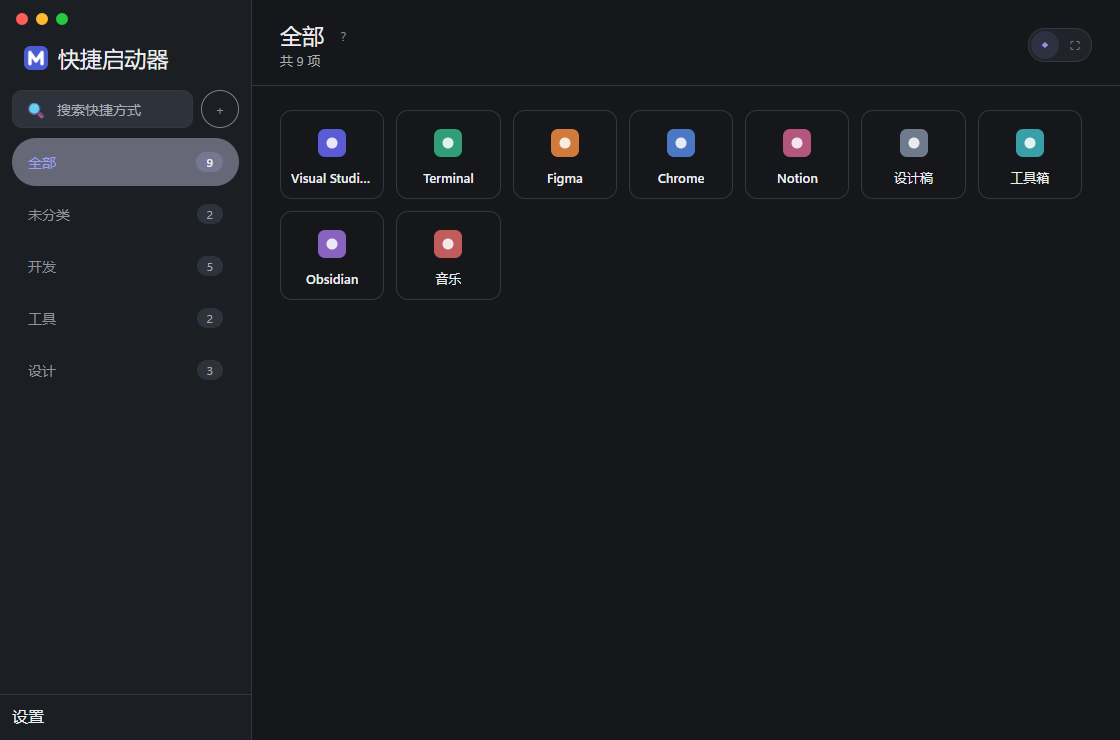
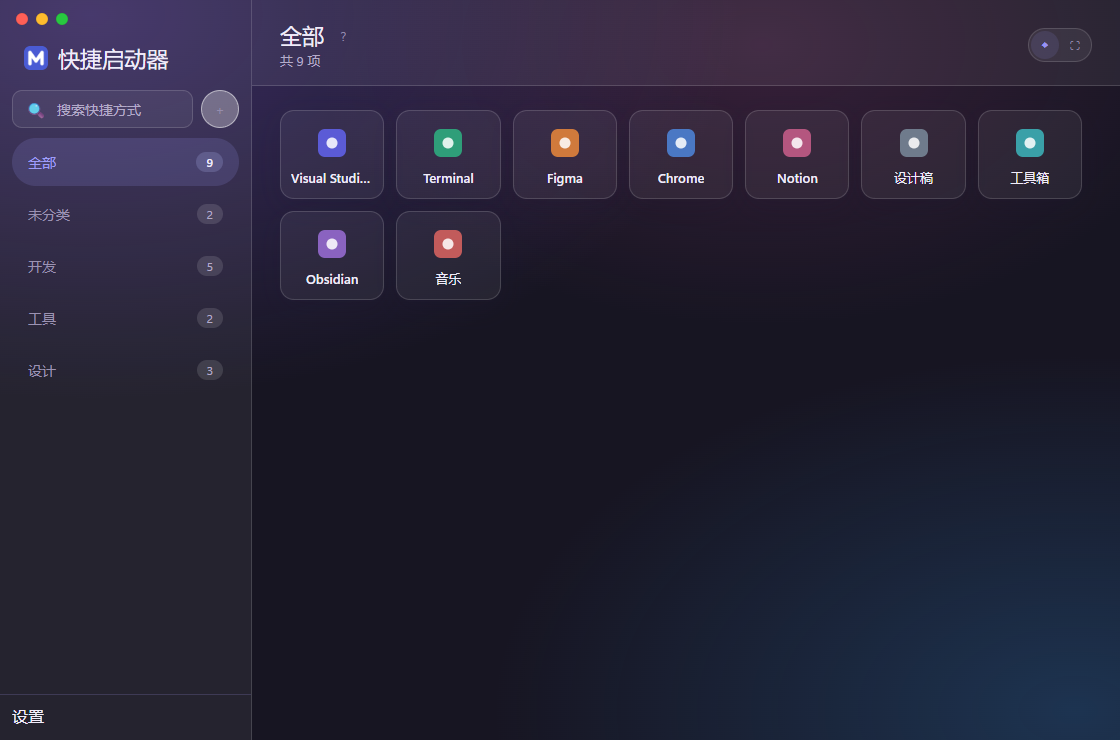
style: v0.4 柔光玻璃（Lei 选定 B 方向），替换 v0.3 中性风
Lei 反馈 v0.3「风格太丑」，在四个方向里选了 B 柔光玻璃（Arc / macOS 26 味）。
上一版的问题是把「去掉颜色」当成现代化，成了没做完的灰白线框。

关键工程取舍 —— 玻璃感全部应用内纯 CSS 自绘，**不用任何系统材质**：
setBackgroundMaterial / vibrancy / backdrop-filter 一律不用。这两端渲染的是
同一套渐变，跨平台观感一致；底色始终是明亮的浅紫白，不会像早期 mini 版
那样透出深色壁纸发灰变暗。

- themes.js：NEUTRAL 换成柔光色板（浅 #f3f0fb / 深 #171522，
  surface-container 系列改半透明白/白）；新增 GLASS 表注入
  --md-glow-a/b/c（三处 radial-gradient）、--md-glass / glass-strong /
  glass-line / glass-shadow / glass-shadow-hover，明暗各一套。
  6 套主题仍是 6 种强调色，paletteOf 与 applyTheme 共用 modernVars。
- styles.css :root 同步柔光默认令牌；圆角 14 / 18px；字体栈保持跨平台统一。
  v0.3 补丁整段替换为 v0.4 表面层：
  ① 柔光只铺 .app:not(.mini-on)，mini 面板保持纯色不透明（亮度沿用定稿）
  ② 侧栏 / 顶栏 = 半透明玻璃 + 亮色发丝线
  ③ 卡片浮白玻璃 + 高光边 + 柔和投影，hover 提亮并加强调色
  ④ 选中行柔紫、计数药丸 / 新建按钮同款玻璃
  ⑤ 胶囊 / 搜索框 / 弹窗统一玻璃语言，弹窗 18px 圆角
  ⚠ 几何 / 交互 / 拖拽 / 落点线 / 滚动条宽度一律不动（10px 槽位是对齐契约）。
- 预览页 design/preview.html 直接吃真实 CSS，明暗截图在 design/probe/。

验收：pnpm build ✓ · tauri build --no-bundle ✓（便携 exe 4.5 MiB，无安装器）·
明暗两态截图人工复核（明亮不发灰、文字对比清楚、玻璃层有层次）。

diff --git a/src/styles.css b/src/styles.css
@@ -1,57 +1,66 @@
 /* ===========================================================
-   AppMgr v0.3 — Neutral soft surfaces（跨平台一致设计语言）
-   纯色分层 + 1px 发丝线 + 极轻阴影 + 12px 圆角；不用 Mica / Vibrancy /
-   毛玻璃，Windows 与 macOS 观感几乎相同。强调色只落在选中态与状态点，
-   6 套主题 = 6 种强调色，中性底由 themes.js 合成后注入。
+   AppMgr v0.4 — Soft glass（柔光玻璃 / 跨平台一致）
+   玻璃感全部由应用内纯 CSS 画：亮紫白底 + 多处柔光渐变 +
+   半透明白玻璃层 + 亮色发丝边 + 柔和投影。
+   ⚠ 不用任何系统材质（Mica / Vibrancy / backdrop-filter）：
+   两端渲染同一套渐变，观感一致，也不会透出深色壁纸发灰。
+   6 套主题 = 6 种强调色；mini 面板仍保持纯色不透明。
    =========================================================== */
 :root {
-  --md-primary: #5b5bd6;
+  --md-primary: #6d55e8;
   --md-on-primary: #ffffff;
-  --md-primary-container: #e9eaf6;
-  --md-on-primary-container: #1b1d22;
-  --md-secondary: #60636d;
+  --md-primary-container: #e9e2ff;
+  --md-on-primary-container: #2b2540;
+  --md-secondary: #6b6285;
   --md-on-secondary: #ffffff;
-  --md-secondary-container: #eef0f4;
-  --md-on-secondary-container: #1b1d22;
-  --md-tertiary: #5b5bd6;
-  --md-surface: #fbfbfd;
-  --md-on-surface: #1b1d22;
-  --md-surface-variant: #eceef2;
-  --md-on-surface-variant: #5f636d;
-  --md-surface-container-low: #f5f6f8;
-  --md-surface-container: #eef0f4;
-  --md-surface-container-high: #e8eaee;
-  --md-surface-container-highest: #e1e3e8;
-  --md-outline: #8b8f98;
-  --md-outline-variant: #e3e5e9;
+  --md-secondary-container: rgba(255, 255, 255, 0.68);
+  --md-on-secondary-container: #2b2540;
+  --md-tertiary: #6d55e8;
+  --md-surface: #f3f0fb;
+  --md-on-surface: #2b2540;
+  --md-surface-variant: #e9e2fa;
+  --md-on-surface-variant: #6b6285;
+  --md-surface-container-low: rgba(255, 255, 255, 0.55);
+  --md-surface-container: rgba(255, 255, 255, 0.68);
+  --md-surface-container-high: rgba(255, 255, 255, 0.80);
+  --md-surface-container-highest: rgba(255, 255, 255, 0.92);
+  --md-outline: #8b7fb0;
+  --md-outline-variant: rgba(122, 92, 255, 0.16);
   --md-error: #c0392b;
   --md-on-error: #ffffff;
   --md-error-container: #fdeceb;
   --md-on-error-container: #5c1a16;
-  --md-shadow: #14161c;
+  --md-shadow: #4a3f70;
+
+  --md-glow-a: radial-gradient(58% 52% at 8% 2%, rgba(196, 168, 255, 0.55) 0%, rgba(196, 168, 255, 0) 100%);
+  --md-glow-b: radial-gradient(52% 48% at 96% 96%, rgba(150, 205, 255, 0.48) 0%, rgba(150, 205, 255, 0) 100%);
+  --md-glow-c: radial-gradient(40% 38% at 68% 6%, rgba(255, 190, 225, 0.34) 0%, rgba(255, 190, 225, 0) 100%);
+  --md-glass: rgba(255, 255, 255, 0.62);
+  --md-glass-strong: rgba(255, 255, 255, 0.84);
+  --md-glass-line: rgba(255, 255, 255, 0.92);
+  --md-glass-shadow: 0 8px 28px rgba(88, 70, 150, 0.10), 0 1px 2px rgba(88, 70, 150, 0.06);
+  --md-glass-shadow-hover: 0 14px 36px rgba(88, 70, 150, 0.16), 0 2px 6px rgba(88, 70, 150, 0.08);
 
   --md-corner-none: 0px;
   --md-corner-xs: 4px;
   --md-corner-sm: 8px;
-  --md-corner-md: 12px;
-  --md-corner-lg: 16px;
+  --md-corner-md: 14px;
+  --md-corner-lg: 18px;
   --md-corner-xl: 28px;
   --md-corner-full: 999px;
 
-  --md-elev-1: 0 1px 2px rgba(20, 22, 28, 0.05), 0 1px 1px rgba(20, 22, 28, 0.03);
-  --md-elev-2: 0 4px 12px rgba(20, 22, 28, 0.07), 0 1px 2px rgba(20, 22, 28, 0.04);
-  --md-elev-3: 0 12px 32px rgba(20, 22, 28, 0.12), 0 2px 8px rgba(20, 22, 28, 0.06);
+  --md-elev-1: 0 1px 2px rgba(88, 70, 150, 0.06);
+  --md-elev-2: 0 8px 28px rgba(88, 70, 150, 0.10);
+  --md-elev-3: 0 14px 36px rgba(88, 70, 150, 0.16);
 
   --md-ease: cubic-bezier(0.2, 0, 0, 1);
   --md-ease-emph: cubic-bezier(0.05, 0.7, 0.1, 1);
 
-  /* 跨平台字体栈：Mac 落 SF Pro / PingFang，Windows 落 Segoe UI Variable /
-     微软雅黑 UI；都是中性无衬线，字形略有差异但观感一致。 */
   --md-font: ui-sans-serif, -apple-system, BlinkMacSystemFont, 'SF Pro Text',
     'Segoe UI Variable Text', 'Segoe UI', 'PingFang SC', 'Microsoft YaHei UI',
     'Noto Sans SC', sans-serif;
 
-  --hairline: 1px solid var(--md-outline-variant);
+  --hairline: 1px solid var(--md-glass-line);
 }
 
 * {
@@ -2569,95 +2578,102 @@ body:has(.app.mini-on) {
 
 
 /* ===========================================================
-   v0.3 表面层补丁：只改视觉，不动几何 / 交互 / 拖拽 / 落点指示线。
+   v0.4 柔光玻璃表面层：只改视觉，不动几何 / 交互 / 拖拽 / 落点指示线。
    ⚠ 滚动条宽度刻意不改 —— .content 与 .fav-body 靠同一个 10px 槽位
    做逐列对齐，改宽度会破坏收藏夹与图标区的网格对齐契约。
    =========================================================== */
 
-/* 顶栏去掉平台相关的毛玻璃：纯色 + 发丝线，两平台一致 */
-.top-app-bar {
-  background: var(--md-surface);
-  backdrop-filter: none;
-  border-bottom: var(--hairline);
+/* ① 柔光只铺在完整态；mini 面板保持纯色不透明（亮度沿用之前定稿） */
+.app:not(.mini-on) {
+  background: var(--md-glow-a), var(--md-glow-b), var(--md-glow-c), var(--md-surface);
 }
+body:has(.app.mini-on) { background: var(--md-surface); }
 
-/* 侧栏收紧到 252px（mini 态仍是单列，见 .app.mini-on） */
+/* ② 侧栏 / 顶栏 = 半透明玻璃层 + 亮色发丝线，不用 backdrop-filter */
+.sidebar {
+  background: var(--md-glass);
+  border-right: 1px solid var(--md-glass-line);
+}
+.top-app-bar {
+  background: var(--md-glass);
+  backdrop-filter: none;
+  border-bottom: 1px solid var(--md-glass-line);
+}
 .app:not(.mini-on) { grid-template-columns: 252px 1fr; }
-.sidebar { border-right: var(--hairline); }
 
-/* 卡片样式：发丝描边替代阴影；hover 用边框强调，不再层层叠灰 */
+/* ③ 卡片：浮白玻璃，高光边 + 柔和投影；hover 提亮并加一点强调色 */
 .app[data-style='card'] .card {
-  background: var(--md-surface);
-  border: var(--hairline);
-  box-shadow: none;
+  background: var(--md-glass);
+  border: 1px solid var(--md-glass-line);
+  box-shadow: var(--md-glass-shadow);
 }
 .app[data-style='card'] .card:hover {
-  border-color: color-mix(in srgb, var(--md-primary) 28%, var(--md-outline-variant));
-  box-shadow: var(--md-elev-2);
+  background: var(--md-glass-strong);
+  border-color: color-mix(in srgb, var(--md-primary) 34%, var(--md-glass-line));
+  box-shadow: var(--md-glass-shadow-hover);
 }
 .app[data-style='card'] .card::before,
 .app[data-style='native'] .card::before,
 .app[data-style='icon'] .card::before { display: none; }
 .app[data-style='native'] .card:hover,
-.app[data-style='icon'] .card:hover { background: var(--md-surface-container); }
-
-/* 选中/菜单目标：主题色描边，不做大色块 */
-.card.ctx-target, .card.selected { outline-color: var(--md-primary); }
-
-/* 弹窗 / 菜单：16px 圆角 + 发丝线 + 轻阴影 */
-.dialog, .ctx-menu, .group-modal {
-  border: var(--hairline);
-  border-radius: var(--md-corner-lg);
-  box-shadow: var(--md-elev-3);
+.app[data-style='icon'] .card:hover {
+  background: var(--md-glass);
+  box-shadow: inset 0 0 0 1px var(--md-glass-line);
 }
 
-/* 输入与按钮：10px 圆角、发丝描边、统一 focus ring */
-.field input[type='text'], .search-row { border-radius: 10px; }
-.search-row { border: var(--hairline); }
+/* ④ 选中 / 状态：柔紫，不做大色块 */
+.card.ctx-target, .card.selected { outline-color: var(--md-primary); }
+.cat.active {
+  background: color-mix(in srgb, var(--md-primary) 16%, transparent);
+  color: var(--md-primary);
+}
+.cat.active .count,
+.cat:focus-within .count {
+  background: color-mix(in srgb, var(--md-primary) 20%, transparent);
+  color: var(--md-on-surface);
+}
+
+/* ⑤ 胶囊 / 输入 / 弹窗：同一套玻璃语言 */
+.top-actions, .mini-actions {
+  background: var(--md-glass);
+  box-shadow: inset 0 0 0 1px var(--md-glass-line);
+}
+.top-btn:hover, .mini-btn:hover { background: var(--md-glass-strong); }
+.search-row {
+  background: var(--md-glass);
+  border: 1px solid var(--md-glass-line);
+  border-radius: 10px;
+}
+.field input[type='text'] { border-radius: 10px; }
+.add-cat-btn {
+  background: var(--md-glass);
+  border: 1px solid var(--md-glass-line);
+  color: var(--md-on-surface-variant);
+}
+.add-cat-btn:hover { background: var(--md-glass-strong); }
+.dialog, .ctx-menu, .group-modal {
+  background: var(--md-glass-strong);
+  border: 1px solid var(--md-glass-line);
+  border-radius: var(--md-corner-lg);
+  box-shadow: var(--md-glass-shadow-hover);
+}
 button:focus-visible, input:focus-visible, [tabindex]:focus-visible {
   outline: 2px solid color-mix(in srgb, var(--md-primary) 55%, transparent);
   outline-offset: 2px;
 }
 
-/* 顶栏 / mini 胶囊：中性容器底，强调色只留给置顶开启态 */
-.top-actions, .mini-actions {
-  background: var(--md-surface-container);
-  box-shadow: inset 0 0 0 1px var(--md-outline-variant);
-}
-.top-btn:hover, .mini-btn:hover { background: var(--md-surface-container-high); }
-
-/* mini 面板保持不透明，与完整态同一底色 */
+/* ⑥ mini 面板：纯色不透明，沿用完整态底色 */
 .mini-panel { background: var(--md-surface); }
 
-/* 滚动条只换中性色，宽度维持原值（对齐契约见上） */
+/* ⑦ 滚动条只换中性偏紫色，宽度维持原值（对齐契约见上） */
 .sidebar-scroll::-webkit-scrollbar-thumb,
 .content::-webkit-scrollbar-thumb,
 .fav-body::-webkit-scrollbar-thumb,
 .dialog::-webkit-scrollbar-thumb {
-  background: color-mix(in srgb, var(--md-on-surface) 18%, transparent);
+  background: color-mix(in srgb, var(--md-primary) 26%, transparent);
   border-radius: 999px;
 }
 
-/* 字重与字距：标题更轻，界面不「喊」 */
+/* ⑧ 排版：标题更轻，字距收紧一点 */
 .top-app-bar h1 { font-weight: 500; letter-spacing: -0.01em; }
 .mini-title { font-weight: 500; }
-
-/* 选中分类：两态都用强调色的淡底（深色下 9% 混合会掉成灰，这里显式给 14%）。
-   计数药丸改成半透明叠层，不再用纯黑 / 纯灰实心块抢视觉。 */
-.cat.active {
-  background: color-mix(in srgb, var(--md-primary) 14%, var(--md-surface));
-  color: var(--md-primary);
-}
-.cat.active .count,
-.cat:focus-within .count {
-  background: color-mix(in srgb, var(--md-primary) 18%, transparent);
-  color: var(--md-on-surface);
-}
-
-/* 新建分类：透明底 + 发丝线，hover 才浮出底色；两平台同一件控件 */
-.add-cat-btn {
-  background: transparent;
-  border: var(--hairline);
-  color: var(--md-on-surface-variant);
-}
-.add-cat-btn:hover { background: var(--md-surface-container-high); }

diff --git a/src/themes.js b/src/themes.js
@@ -341,28 +341,55 @@ export function getTheme(id) {
 // ---------------------------------------------------------------------------
 const NEUTRAL = {
   light: {
-    surface: '#fbfbfd',
-    'on-surface': '#1b1d22',
-    'surface-variant': '#eceef2',
-    'on-surface-variant': '#5f636d',
-    'surface-container-low': '#f5f6f8',
-    'surface-container': '#eef0f4',
-    'surface-container-high': '#e8eaee',
-    'surface-container-highest': '#e1e3e8',
-    outline: '#8b8f98',
-    'outline-variant': '#e3e5e9'
+    surface: '#f3f0fb',
+    'on-surface': '#2b2540',
+    'surface-variant': '#e9e2fa',
+    'on-surface-variant': '#6b6285',
+    'surface-container-low': 'rgba(255, 255, 255, 0.55)',
+    'surface-container': 'rgba(255, 255, 255, 0.68)',
+    'surface-container-high': 'rgba(255, 255, 255, 0.80)',
+    'surface-container-highest': 'rgba(255, 255, 255, 0.92)',
+    outline: '#8b7fb0',
+    'outline-variant': 'rgba(122, 92, 255, 0.16)'
   },
   dark: {
-    surface: '#15171b',
-    'on-surface': '#eceef2',
-    'surface-variant': '#2a2d33',
-    'on-surface-variant': '#a8acb5',
-    'surface-container-low': '#1b1e23',
-    'surface-container': '#202329',
-    'surface-container-high': '#272b31',
-    'surface-container-highest': '#2e323a',
-    outline: '#7d828c',
-    'outline-variant': '#33373e'
+    surface: '#171522',
+    'on-surface': '#f0ecfa',
+    'surface-variant': '#2e2a3d',
+    'on-surface-variant': '#b4abc9',
+    'surface-container-low': 'rgba(255, 255, 255, 0.045)',
+    'surface-container': 'rgba(255, 255, 255, 0.06)',
+    'surface-container-high': 'rgba(255, 255, 255, 0.09)',
+    'surface-container-highest': 'rgba(255, 255, 255, 0.12)',
+    outline: '#8f86a8',
+    'outline-variant': 'rgba(180, 160, 255, 0.18)'
+  }
+}
+
+// 柔光玻璃：光晕、玻璃层、亮边、柔和投影。
+// ⚠ 全部是应用内纯 CSS，不用 setBackgroundMaterial / vibrancy / backdrop-filter
+// —— 那类系统材质在 Win/Mac 表现不同，而且会透出深色壁纸发灰（mini 版踩过）。
+// 这样两端渲染的是同一套渐变，观感一致，底色也始终是明亮的浅紫白。
+const GLASS = {
+  light: {
+    'glow-a': 'radial-gradient(58% 52% at 8% 2%, rgba(196, 168, 255, 0.55) 0%, rgba(196, 168, 255, 0) 100%)',
+    'glow-b': 'radial-gradient(52% 48% at 96% 96%, rgba(150, 205, 255, 0.48) 0%, rgba(150, 205, 255, 0) 100%)',
+    'glow-c': 'radial-gradient(40% 38% at 68% 6%, rgba(255, 190, 225, 0.34) 0%, rgba(255, 190, 225, 0) 100%)',
+    glass: 'rgba(255, 255, 255, 0.62)',
+    'glass-strong': 'rgba(255, 255, 255, 0.84)',
+    'glass-line': 'rgba(255, 255, 255, 0.92)',
+    'glass-shadow': '0 8px 28px rgba(88, 70, 150, 0.10), 0 1px 2px rgba(88, 70, 150, 0.06)',
+    'glass-shadow-hover': '0 14px 36px rgba(88, 70, 150, 0.16), 0 2px 6px rgba(88, 70, 150, 0.08)'
+  },
+  dark: {
+    'glow-a': 'radial-gradient(58% 52% at 8% 2%, rgba(110, 80, 190, 0.42) 0%, rgba(110, 80, 190, 0) 100%)',
+    'glow-b': 'radial-gradient(52% 48% at 96% 96%, rgba(40, 110, 170, 0.34) 0%, rgba(40, 110, 170, 0) 100%)',
+    'glow-c': 'radial-gradient(40% 38% at 68% 6%, rgba(170, 70, 140, 0.22) 0%, rgba(170, 70, 140, 0) 100%)',
+    glass: 'rgba(255, 255, 255, 0.06)',
+    'glass-strong': 'rgba(255, 255, 255, 0.11)',
+    'glass-line': 'rgba(255, 255, 255, 0.15)',
+    'glass-shadow': '0 8px 28px rgba(0, 0, 0, 0.28)',
+    'glass-shadow-hover': '0 14px 36px rgba(0, 0, 0, 0.42)'
   }
 }
 
@@ -373,6 +400,7 @@ function modernVars(themeId, mode) {
   const accent = theme[m].primary // 各主题原本就按明暗调过亮度，直接拿来当强调色
   return {
     ...n,
+    ...GLASS[m],
     primary: accent,
     'on-primary': m === 'dark' ? '#10131a' : '#ffffff',
     'primary-container': `color-mix(in srgb, ${accent} 12%, var(--md-surface))`,
